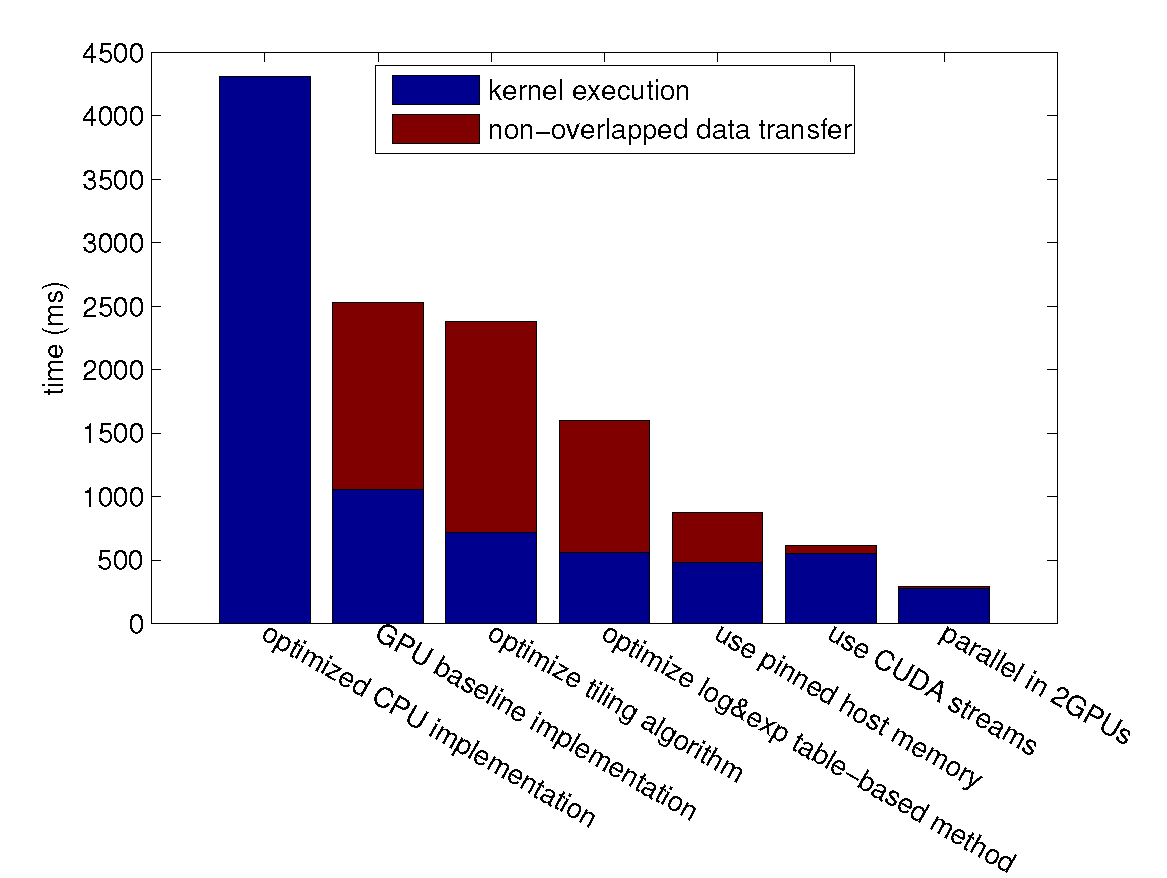
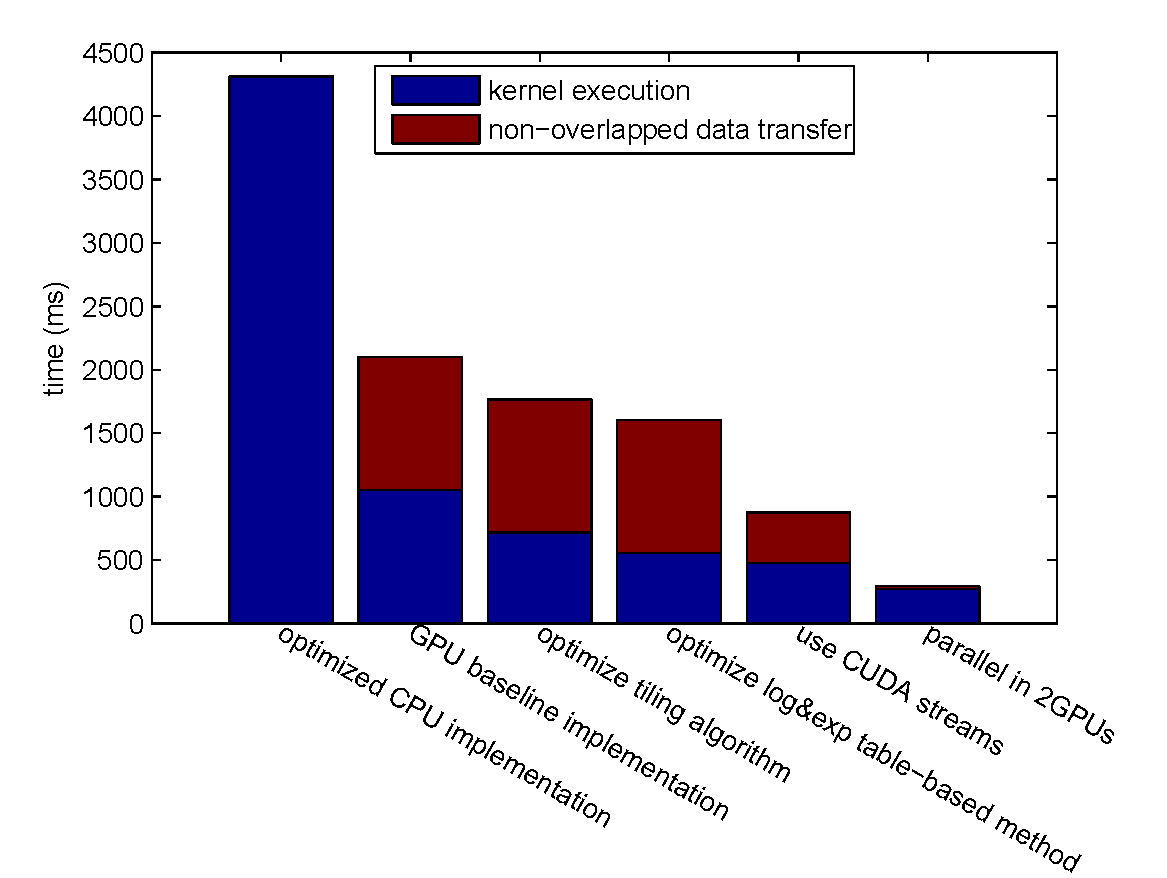
update step-BW fig

diff --git a/images/exp/step-perf/stepBreakdownFig.m b/images/exp/step-perf/stepBreakdownFig.m
@@ -1,5 +1,6 @@
 bar(stepBreakdown, 'stack');
-set(gca,'XTickLabel',{'optimized CPU implementation', 'GPU baseline implementation', 'optimize tiling algorithm', 'optimize log&exp table-based method', 'use pinned host memory', 'use CUDA streams', 'parallel in 2GPUs'});
+% set(gca,'XTickLabel',{'optimized CPU implementation', 'GPU baseline implementation', 'optimize tiling algorithm', 'optimize log&exp table-based method', 'use pinned host memory', 'use CUDA streams', 'parallel in 2GPUs'});
+set(gca,'XTickLabel',{'optimized CPU implementation', 'GPU baseline implementation', 'optimize tiling algorithm', 'optimize log&exp table-based method', 'use CUDA streams', 'parallel in 2GPUs'});
 legend('kernel execution', 'non-overlapped data transfer', 'Location', 'Best');
 ylabel('time (ms)');
 rotateticklabel(gca,-30);
